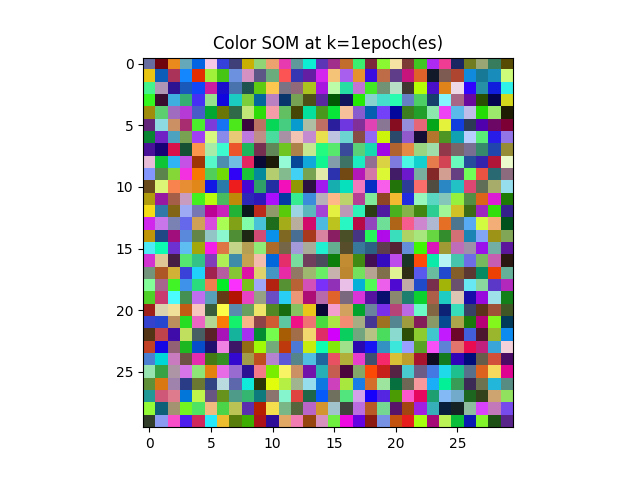
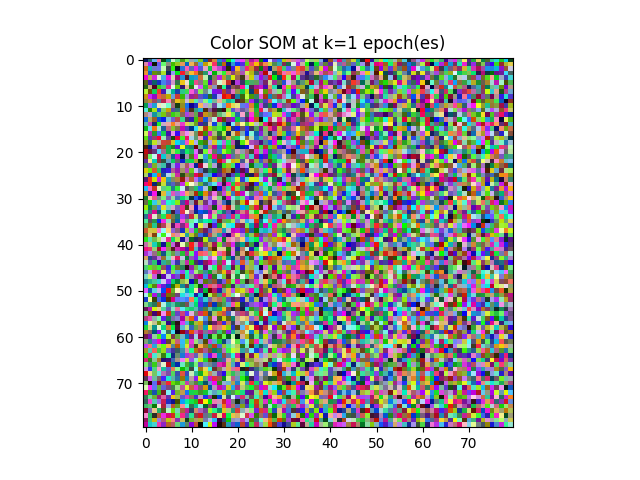
dockerized this app and cleaned up some old codes

diff --git a/app/routes.py b/app/routes.py
@@ -1,4 +1,4 @@
-from app import app
+from app import app, cache
 from flask import Flask, request, jsonify, make_response, render_template
 import webcolors
 from app.serve import process_som_model
@@ -14,7 +14,8 @@ files = [
             "app/static/data/0.png",
             "app/static/data/1.png",
             "app/static/data/2.png",
-            "app/static/data/3.png"
+            "app/static/data/3.png",
+            "app/static/data/4.png"
             ]
 
 @app.route('/')
@@ -40,29 +41,31 @@ def server_error(e):
 def api():
     hex_colours = request.json
     rgb_colours = []
-    global cached_colours
-    for colour in hex_colours:
+    global files
 
+    for file in files:
+        if Path(file).is_file():
+            Path(file).unlink()
+
+    for colour in hex_colours:
         rgb_colours.append(
                 list(map(lambda x: x / 255,
                     list(webcolors.hex_to_rgb(colour))
                 ))
             )
 
-    # print(hex_colours)
     rgb_colours = np.asarray(rgb_colours)
 
-    print("Starting thread to train")
+    print("Starting a thread to train the model")
     t = Thread(target=process_som_model, args=(rgb_colours,))
     t.start()
 
-    # output_data = model_api(input_data)
-    # response = jsonify(output_data)
     response = jsonify([])
     return response
 
 # ajax polling this route to load the training result
 @app.route('/api_polling', methods=['GET'])
+@cache.cached(unless=True)
 def api_polling():
     all_exist = True
     global files

diff --git a/app/serve.py b/app/serve.py
@@ -3,20 +3,21 @@ import numpy as np
 from app.models import SOM
 from pathlib import Path
 
+# threaded function to handle model training
 def process_som_model(colors):
   sample_epoches = [1, 20, 40, 100, 1000]
-  # sample_epoches = [1, 20, 40, 100]
-  som = SOM(50, 50, 3, n_iterations=1000, sigma=20, sample_epoches=sample_epoches)
+
+  som = SOM(50, 50, 3, n_iterations=1000, sample_epoches=sample_epoches)
   som.train(colors)
 
   image_grids = som.get_centroids()
 
-  print(Path.cwd())
-
   for i, grid in enumerate(image_grids):
     plt.imshow(grid)
-    plt.title('Color SOM at k=' + str(sample_epoches[i]) + 'epoch(es)')
+    plt.title('Color SOM at k=' + str(sample_epoches[i]) + ' epoch(es)')
 
     plt.savefig("app/static/data/" + str(i) + ".png")
 
     plt.clf()
+
+  print('Figures saved.')

diff --git a/app/__init__.py b/app/__init__.py
@@ -1,7 +1,10 @@
 from flask import Flask
 from flask_cors import CORS
+from flask_caching import Cache
 
 app = Flask(__name__)
 CORS(app) # needed for cross-domain requests, allow everything by default
+cache = Cache(app, config={'CACHE_TYPE': 'simple'})
+cache.init_app(app)
 
 from app import routes

diff --git a/app/models/__init__.py b/app/models/__init__.py
@@ -35,7 +35,7 @@ class SOM(object):
         else:
             alpha = float(alpha)
         if sigma is None:
-            sigma = max(m, n) / 2.0
+            sigma = int(max(m, n) * 0.4)
         else:
             sigma = int(sigma)
         self._n_iterations = abs(int(n_iterations))

diff --git a/app/static/data/README.md b/app/static/data/README.md
@@ -1,0 +1,1 @@
+This is the dir to store the figures
